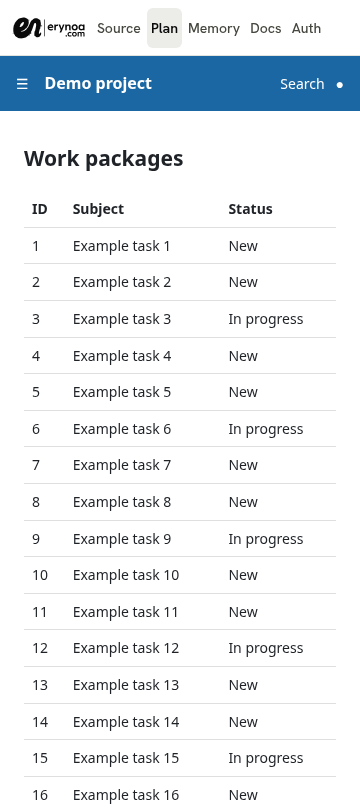
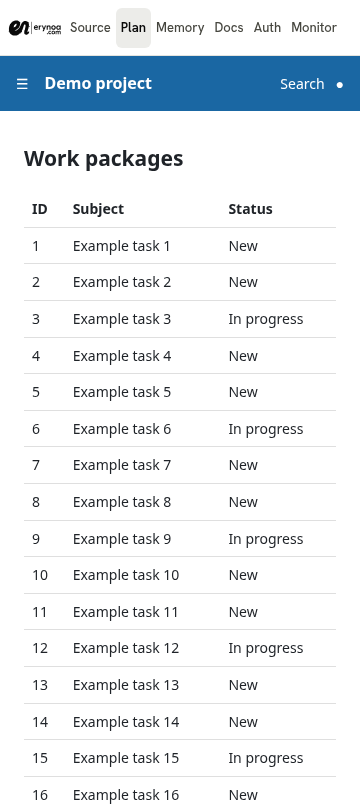
RagFit 0005: Erynoa header package 1.1.2 (Monitor entry)
Replaces the vendored package public/erynoa/1.1.1 with 1.1.2 (tag
erynoa-header-v1.1.2, commit fa07ded9e2ea1a29d355aa553f655936c2f3e05a),
copied unchanged with SHA256SUMS. Adds the Monitor link to the partial and
the specs, points the checksum job at 1.1.2 and removes our narrow-phone
nav override, which the package now covers. Patch 0005 regenerated,
CHANGES-RAGFIT.md entry, screenshots redone (desktop, 375, 360, 320px).

Changed region(s): [[0.0306, 0.0, 0.6722, 0.0616], [0.7028, 0.0308, 0.9167, 0.0616]]

diff --git a/public/erynoa/1.1.2/erynoa-header.v1.js b/public/erynoa/1.1.2/erynoa-header.v1.js
@@ -1,11 +1,11 @@
 // SPDX-License-Identifier: MIT
-// Copyright (c) 2026 Erynoa — <erynoa-header> v1.1.1. No deps, no network calls, no tracking.
+// Copyright (c) 2026 Erynoa — <erynoa-header> v1.1.2. No deps, no network calls, no tracking.
 // Usage: <erynoa-header current="plan" [domain="example.org"] [skip-target="#main"] [home="https://…/"] [theme="dark|light"]></erynoa-header>
 // home defaults to https://source.<domain>/.
 // Without `domain`, the base domain is derived from location.hostname by dropping the first label
 // (plan.example.org -> example.org). Requires erynoa-header.v1.css loaded in the page.
 (() => {
-  const SERVICES = [["source", "Source"], ["plan", "Plan"], ["memory", "Memory"], ["docs", "Docs"], ["auth", "Auth"]];
+  const SERVICES = [["source", "Source"], ["plan", "Plan"], ["memory", "Memory"], ["docs", "Docs"], ["auth", "Auth"], ["monitor", "Monitor"]];
   const baseDomain = (h) => { const p = h.split("."); return p.length > 2 ? p.slice(1).join(".") : h; };
   class ErynoaHeader extends HTMLElement {
     static get observedAttributes() { return ["current", "domain", "skip-target", "home", "theme"]; }
@@ -19,7 +19,7 @@
       const theme = this.getAttribute("theme");
       const slot = this.querySelector(".erh-slot-end");
       const h = document.createElement("header");
-      h.className = "erh"; h.setAttribute("role", "banner"); h.dataset.erynoaHeader = "1.1.1";
+      h.className = "erh"; h.setAttribute("role", "banner"); h.dataset.erynoaHeader = "1.1.2";
       if (theme === "dark" || theme === "light") h.dataset.erhTheme = theme;
       const a = (cls, href, text) => { const e = document.createElement("a"); e.className = cls; e.href = href; if (text) e.textContent = text; return e; };
       h.append(a("erh-skip", skip, "Skip to content"));

diff --git a/public/erynoa/1.1.2/erynoa-header.v1.css b/public/erynoa/1.1.2/erynoa-header.v1.css
@@ -1,5 +1,5 @@
 /* SPDX-License-Identifier: MIT
- * Copyright (c) 2026 Erynoa — Erynoa header v1.1.1 (code only; logo/name: see NOTICE.md) */
+ * Copyright (c) 2026 Erynoa — Erynoa header v1.1.2 (code only; logo/name: see NOTICE.md) */
 :root {
   --erh-height: 48px;           /* desktop */
   --erh-height-mobile: 56px;    /* < 640px */
@@ -63,7 +63,8 @@
   -webkit-mask: var(--erh-logo-url) center / contain no-repeat;
           mask: var(--erh-logo-url) center / contain no-repeat;
 }
-.erh-nav { height: 100%; overflow-x: auto; scrollbar-width: none; }
+.erh-nav { height: 100%; min-width: 0; flex: 1 1 auto; overflow-x: auto; scrollbar-width: none; scroll-padding-inline: 8px; }
+.erh-nav::-webkit-scrollbar { display: none; }
 .erh-nav ul { display: flex; height: 100%; margin: 0; padding: 0; list-style: none; gap: 4px; align-items: center; }
 .erh-nav a {
   display: inline-flex; align-items: center; height: 32px; padding: 0 10px; border-radius: 6px;
@@ -76,6 +77,14 @@
 @media (max-width: 639px) {
   .erh { height: var(--erh-height-mobile); gap: 8px; padding: 0 12px; }
   .erh-nav a { height: 40px; padding: 0 8px; } /* >= 40px touch target */
+}
+/* Narrow phones (375/360px): tighter spacing so all entries fit; at 320px the nav scrolls
+   horizontally and every link stays reachable via Tab (focus scrolls it into view). */
+@media (max-width: 399px) {
+  .erh { gap: 4px; padding: 0 8px; }
+  .erh-nav ul { gap: 0; }
+  .erh-nav a { padding: 0 5px; font-size: 13px; }
+  :root { --erh-logo-height: 16px; }
 }
 @media (prefers-reduced-motion: no-preference) { .erh-nav a { transition: background-color .12s, color .12s; } }
 @media print { .erh { display: none; } }

diff --git a/public/erynoa/1.1.2/erynoa-header.v1.html b/public/erynoa/1.1.2/erynoa-header.v1.html
@@ -1,11 +1,11 @@
 <!-- SPDX-License-Identifier: MIT -->
-<!-- Erynoa header v1.1.1. Placeholders, replaced by the app at render time (or use erynoa-header.v1.js):
+<!-- Erynoa header v1.1.2. Placeholders, replaced by the app at render time (or use erynoa-header.v1.js):
        __ERYNOA_DOMAIN__     base domain, e.g. derived from the app's own host by dropping the first label
        __ERH_HOME_URL__      logo link; default https://source.__ERYNOA_DOMAIN__/
        __ERH_SKIP_TARGET__   skip-link target; default #main
      Optional: data-erh-theme="dark|light" on <header> forces the theme. Set aria-current="page"
      on the current service. Logo/name: see NOTICE.md (not MIT). -->
-<header class="erh" role="banner" data-erynoa-header="1.1.1">
+<header class="erh" role="banner" data-erynoa-header="1.1.2">
   <a class="erh-skip" href="__ERH_SKIP_TARGET__">Skip to content</a>
   <a class="erh-brand" href="__ERH_HOME_URL__" aria-label="Erynoa">
     <span class="erh-logo" role="img" aria-label="Erynoa"></span>
@@ -17,6 +17,7 @@
       <li><a data-erh-service="memory" href="https://memory.__ERYNOA_DOMAIN__/">Memory</a></li>
       <li><a data-erh-service="docs"   href="https://docs.__ERYNOA_DOMAIN__/">Docs</a></li>
       <li><a data-erh-service="auth"   href="https://auth.__ERYNOA_DOMAIN__/">Auth</a></li>
+      <li><a data-erh-service="monitor" href="https://monitor.__ERYNOA_DOMAIN__/">Monitor</a></li>
     </ul>
   </nav>
   <div class="erh-slot-end"><!-- optional app slot (user menu etc.) --></div>

diff --git a/public/erynoa/ragfit-plan-layout.css b/public/erynoa/ragfit-plan-layout.css
@@ -25,12 +25,6 @@
     height: calc(100dvh - var(--ragfit-erh-h));
   }
 }
-/* narrow phones (360px and up): all five service links fit without horizontal scrolling; browsers do not
- * scroll a partly visible focused link into view, so a cut-off last link would stay cut off on Tab. */
-@media (max-width: 400px) {
-  .erh-nav ul { gap: 2px; }
-  .erh-nav a { padding: 0 4px; }
-}
 @media print {
   #content-wrapper, #main-menu #menu-sidebar { height: auto; }
 }

diff --git a/spec/requests/ragfit/erynoa_header_spec.rb b/spec/requests/ragfit/erynoa_header_spec.rb
@@ -16,14 +16,14 @@ RSpec.describe "RagFit Erynoa header", type: :rails_request do
       expect(first.name).to eq("header")
       expect(first["class"]).to eq("erh")
       expect(header["role"]).to eq("banner")
-      expect(header["data-erynoa-header"]).to eq("1.1.1")
+      expect(header["data-erynoa-header"]).to eq("1.1.2")
       expect(header.at_css("a.erh-skip")["href"]).to eq("#content-wrapper")
       expect(header.at_css("a.erh-brand")["href"]).to eq("https://source.example.org/")
       expect(header.css("nav a").map { |a| a["href"] })
-        .to eq(%w[source plan memory docs auth].map { |s| "https://#{s}.example.org/" })
+        .to eq(%w[source plan memory docs auth monitor].map { |s| "https://#{s}.example.org/" })
       expect(header.css("a[aria-current='page']").map { |a| a["data-erh-service"] }).to eq(["plan"])
       expect(header.css("script")).to be_empty
-      expect(response.body).to include('href="/erynoa/1.1.1/erynoa-header.v1.css"')
+      expect(response.body).to include('href="/erynoa/1.1.2/erynoa-header.v1.css"')
       expect(response.body).to include('href="/erynoa/ragfit-plan-layout.css"')
       expect(response.body).not_to include("erynoa-header.v1.js")
     end

diff --git a/lib/open_project/ragfit/erynoa_header.rb b/lib/open_project/ragfit/erynoa_header.rb
@@ -3,7 +3,7 @@
 # RagFit patch 0005 (erynoa-header, 2026-10-14): Erynoa header above the OpenProject layout.
 # GPLv3 §10 modification, see CHANGES-RAGFIT.md.
 #
-# The vendored package public/erynoa/1.1.1/ (ErynoaGroup/.assets, tag erynoa-header-v1.1.1, MIT code; Erynoa
+# The vendored package public/erynoa/1.1.2/ (ErynoaGroup/.assets, tag erynoa-header-v1.1.2, MIT code; Erynoa
 # name and logo not licensed, see its NOTICE.md) is served unchanged as static files. This file only renders the
 # partial with the package's markup and resolves its placeholders at request time:
 # - domain: RAGFIT_ERYNOA_DOMAIN, otherwise the configured host name minus its first label
@@ -15,9 +15,9 @@
 module OpenProject
   module Ragfit
     module ErynoaHeader
-      VERSION = "1.1.1"
+      VERSION = "1.1.2"
       ASSET_PATH = "/erynoa/#{VERSION}".freeze
-      SERVICES = %w[source plan memory docs auth].freeze
+      SERVICES = %w[source plan memory docs auth monitor].freeze
       CURRENT = "plan"
       SKIP_TARGET = "#content-wrapper"
       HOST_LABEL = /\A(?!-)[a-z0-9-]{1,63}(?<!-)\z/

diff --git a/public/erynoa/1.1.2/README.md b/public/erynoa/1.1.2/README.md
@@ -1,7 +1,7 @@
-# Erynoa header v1.1.1
+# Erynoa header v1.1.2
 
 One shared top bar above every RagFit service UI: RagFit | Source, RagFit | Plan,
-RagFit | Memory, RagFit | Docs and RagFit | Auth.
+RagFit | Memory, RagFit | Docs, RagFit | Auth and RagFit | Monitor.
 
 | File | Purpose |
 |------|---------|
@@ -16,7 +16,7 @@ RagFit | Memory, RagFit | Docs and RagFit | Auth.
 Keep the CSS and SVG **in the same directory** (the mask URL is relative).
 Do not push them through an asset pipeline that fingerprints only one of them.
 Recommended layout in a consumer: `…/erynoa/<version>/` (e.g.
-`public/assets/erynoa/1.1.1/`), so caches never serve a stale file.
+`public/assets/erynoa/1.1.2/`), so caches never serve a stale file.
 
 ## Spec
 
@@ -115,9 +115,9 @@ from these files; otherwise the system stack applies.
 
 ## Versioning
 
-> **Tag `erynoa-header-v1.1.0` is invalid** — it points to v1.0.0 content (`250d5b85`). Pin `erynoa-header-v1.1.1` or later by commit SHA. See `CHANGELOG.md`.
+> **Tag `erynoa-header-v1.1.0` is invalid** — it points to v1.0.0 content (`250d5b85`). Pin `erynoa-header-v1.1.2` or later by commit SHA. See `CHANGELOG.md`.
 
-SemVer tags `erynoa-header-vX.Y.Z` (this: `erynoa-header-v1.1.1`). File names
+SemVer tags `erynoa-header-vX.Y.Z` (this: `erynoa-header-v1.1.2`). File names
 carry the major (`*.v1.*`); a breaking change (markup, class/token names,
 height) creates `*.v2.*`. Consumers pin by **commit SHA** and record it in their
 PROVENANCE along with `SHA256SUMS`. After changing a file run `just header-sums`,

diff --git a/CHANGES-RAGFIT.md b/CHANGES-RAGFIT.md
@@ -165,3 +165,14 @@ and no further restrictions may be imposed (§7, §10). Patch file: `ragfit/patc
 - `README-RAGFIT-CI.md` updated.
 
 **Why:** With `fetch-depth: 1` the CI leak guard never ran the diff and commit-message scan, and the commit allowlist could not be checked. Once the scan ran, CSS at-rules and Ruby instance variables were reported as mentions.
+
+## 2026-10-14 — 0005 erynoa-header: package 1.1.2
+
+**What:**
+- `public/erynoa/1.1.1/` replaced by `public/erynoa/1.1.2/`: Erynoa header package 1.1.2 (tag `erynoa-header-v1.1.2` of the Erynoa assets repository, commit `fa07ded9e2ea1a29d355aa553f655936c2f3e05a`), copied unchanged including `LICENSE`, `NOTICE.md`, `PROVENANCE.md` and `SHA256SUMS`. New nav entry Monitor; the package itself now tightens the nav below 400px and lets it shrink and scroll.
+- `lib/open_project/ragfit/erynoa_header.rb` (version 1.1.2, service list), `app/views/ragfit/_erynoa_header.html.erb` (Monitor link), request spec and the `erynoa-header-sums` job in `erynoa-spec.yml` follow the new version.
+- `public/erynoa/ragfit-plan-layout.css`: the narrow-phone nav override (max-width 400px) is removed; the package covers it.
+- Screenshots in `docs/screenshots/erynoa-header/` redone (desktop light, dark, forced dark; 375, 360 and 320px).
+- Patch file `ragfit/patches/0005-erynoa-header.patch` regenerated.
+
+**Why:** Monitor is a RagFit service; the package release replaces our own spacing override.

diff --git a/public/erynoa/1.1.2/CHANGELOG.md b/public/erynoa/1.1.2/CHANGELOG.md
@@ -1,5 +1,11 @@
 # Changelog — Erynoa header
 
+## 1.1.2 — 2026-10-14
+- New nav entry **Monitor** (`monitor.<domain>`, `current="monitor"`) after Auth, in HTML partial and web component.
+- Narrow phones: below 400px tighter spacing (link padding 5px, 13px text, 16px logo, gap 4px); all six entries fit at 375 and 360px.
+  Nav shrinks with the header (`min-width: 0`), scrolls horizontally at 320px with hidden scrollbar; every link stays reachable via Tab.
+- No "Ops" entry: there is no RagFit | Ops service/hostname yet; add it when one exists (one line in HTML and JS).
+
 ## 1.1.1 — 2026-10-13
 - Ships the v1.1.0 review changes that were missing from the squash merge of
   PR #4 (theme selectors, versioned `*.v1.*` files, `SHA256SUMS`/`PROVENANCE.md`,

diff --git a/public/erynoa/1.1.2/PROVENANCE.md b/public/erynoa/1.1.2/PROVENANCE.md
@@ -3,7 +3,7 @@
 | Item | Value |
 |------|-------|
 | Package | `templates/web/erynoa-header/` in `ErynoaGroup/.assets` |
-| Version | 1.1.1 (file names carry the major: `*.v1.*`) |
+| Version | 1.1.2 (file names carry the major: `*.v1.*`) |
 | Source commit | the `.assets` commit you vendor from — record its full SHA in your own PROVENANCE |
 | Logo | `erynoa-en-lockup.svg` = byte-identical copy of `logos/erynoa/erynoa-en-lockup.svg` (unchanged since `6b9cbe583ee62784f5ccef0a0d18fb132464ff52`) |
 | Checksums | `SHA256SUMS` (all distributable files); verify with `sha256sum -c SHA256SUMS` in this directory |
